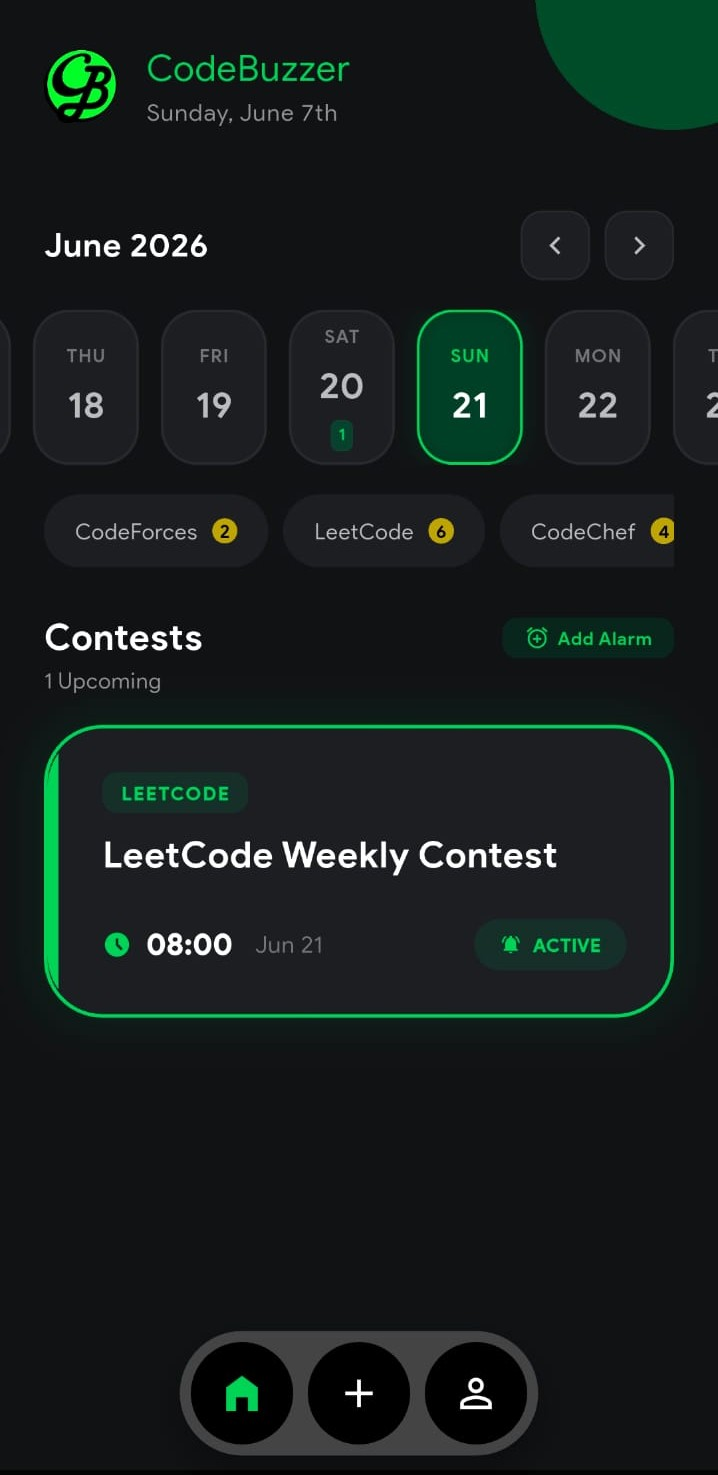
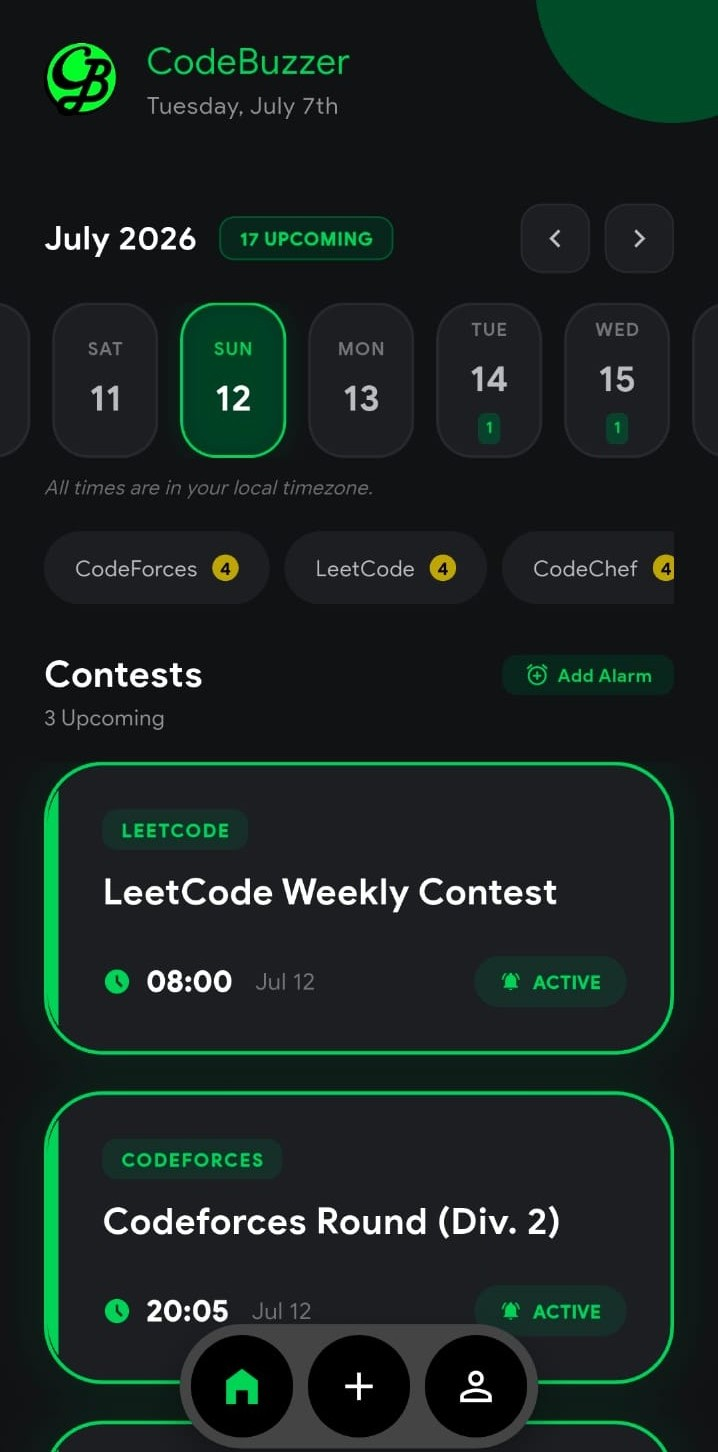
update

diff --git a/android/app/src/main/kotlin/com/example/codebuzzer/WidgetRemoteViewsService.kt b/android/app/src/main/kotlin/com/example/codebuzzer/WidgetRemoteViewsService.kt
@@ -32,7 +32,7 @@ class WidgetRemoteViewsFactory(private val context: Context) : RemoteViewsServic
         try {
             if (jsonString != null && jsonString != "null") {
                 val array = JSONArray(jsonString)
-                val today = Calendar.getInstance().apply { add(Calendar.DAY_OF_YEAR, 1) } // offset by 1 day for testing
+                val today = Calendar.getInstance()
                 val format = SimpleDateFormat("yyyy-MM-dd'T'HH:mm:ss", Locale.getDefault())
                 
                 for (i in 0 until array.length()) {